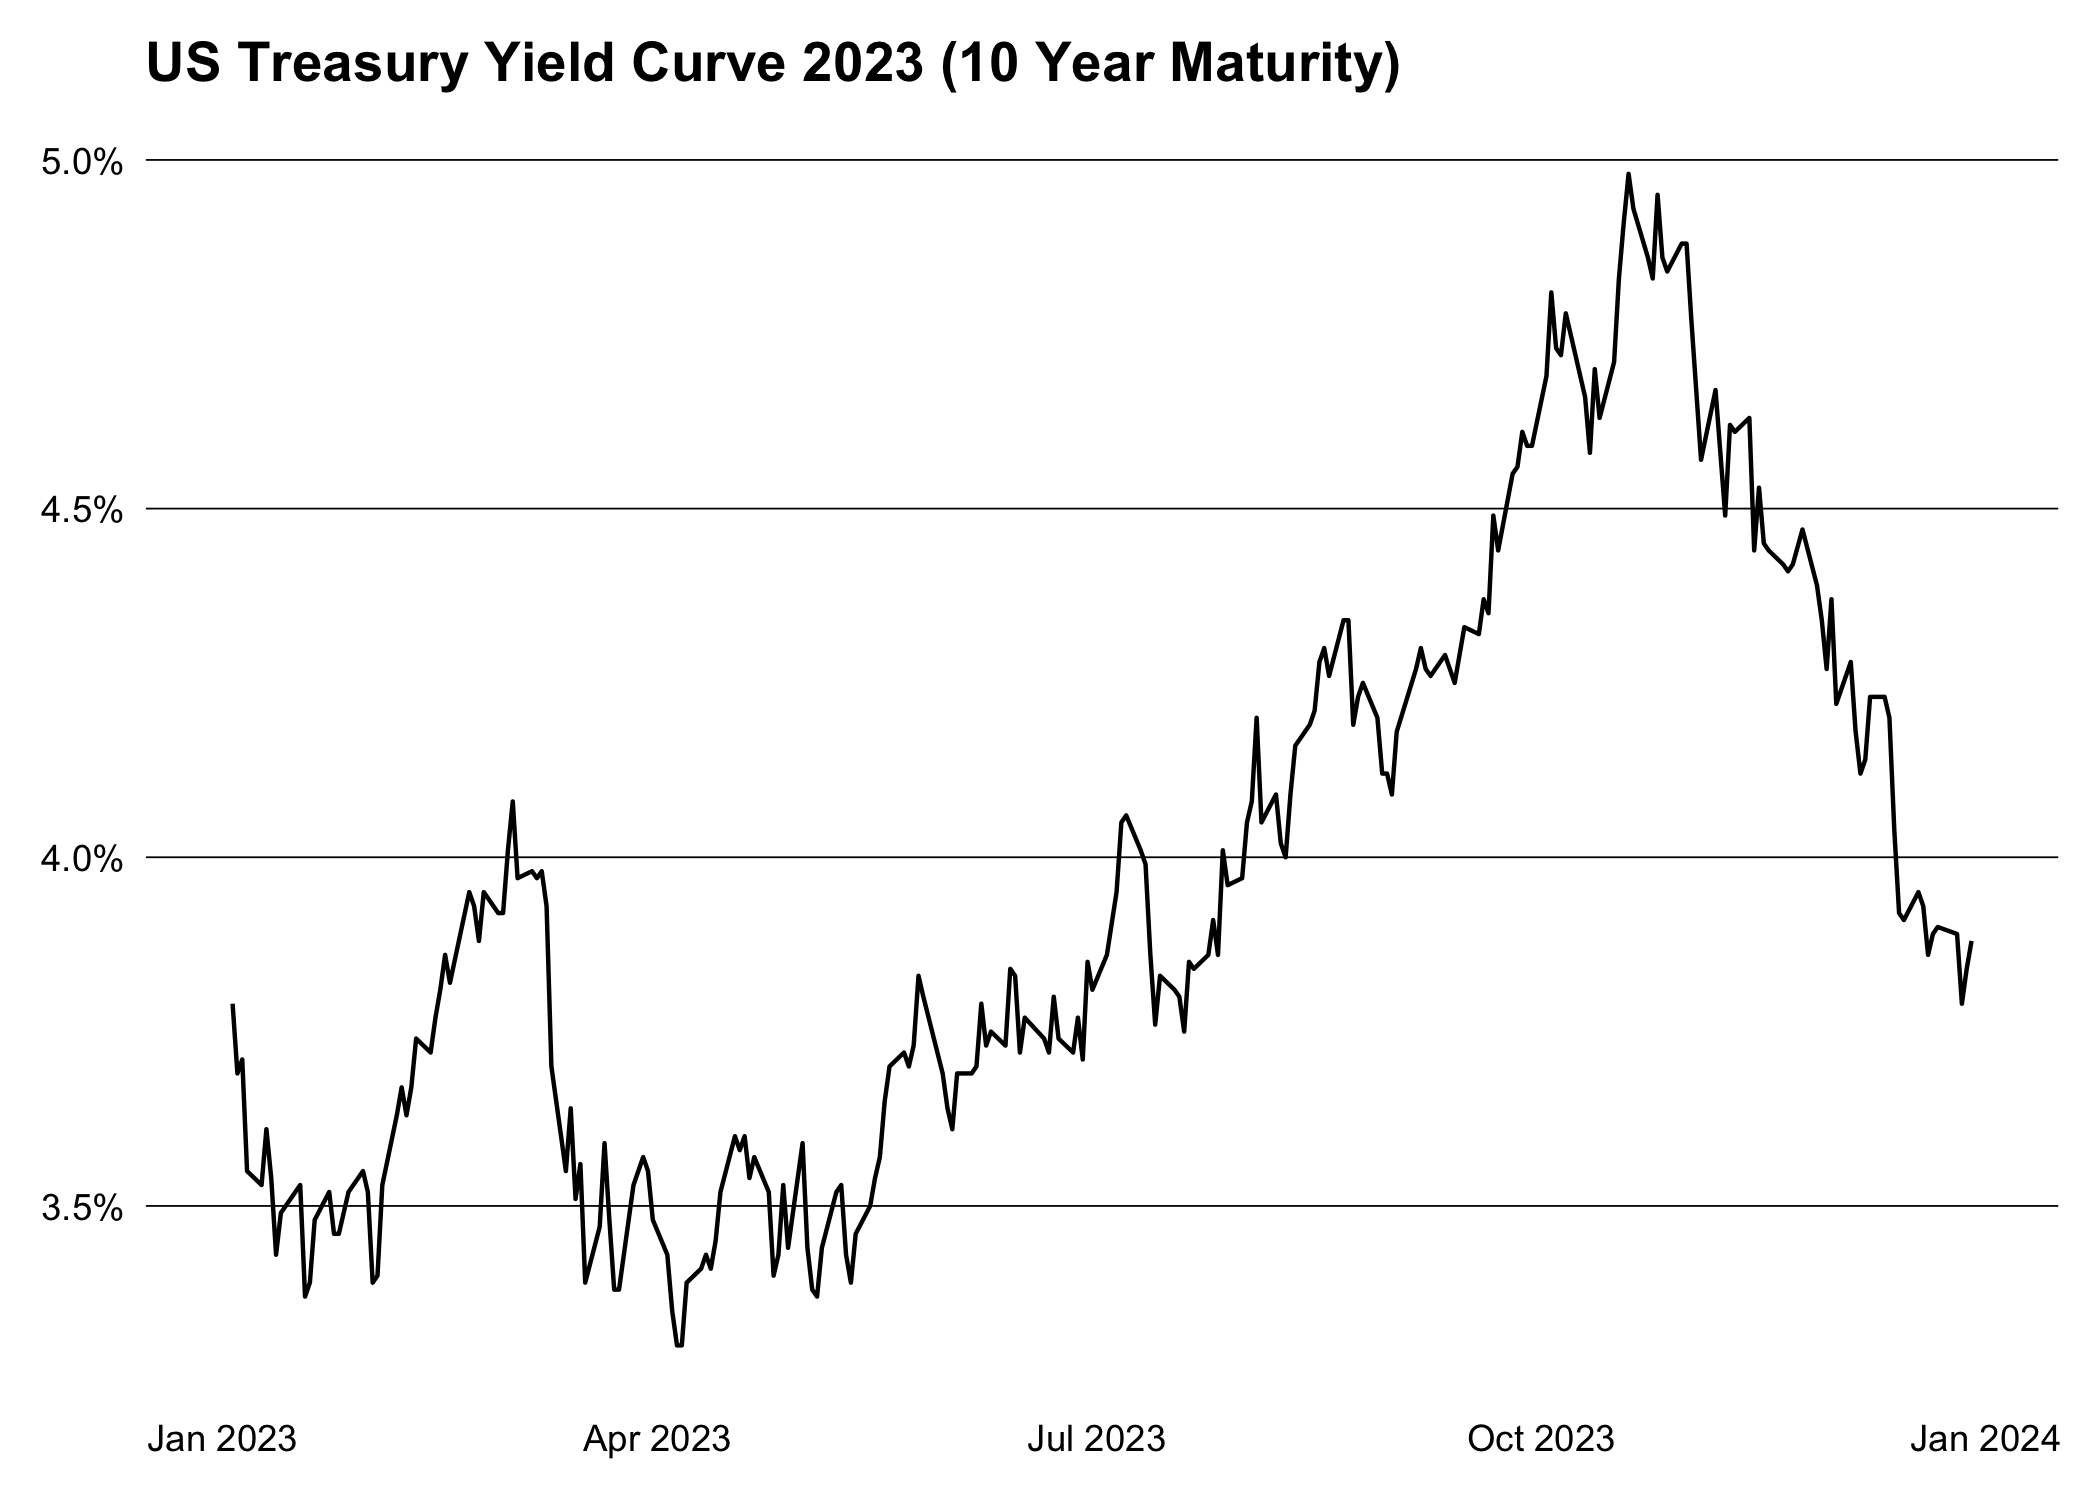
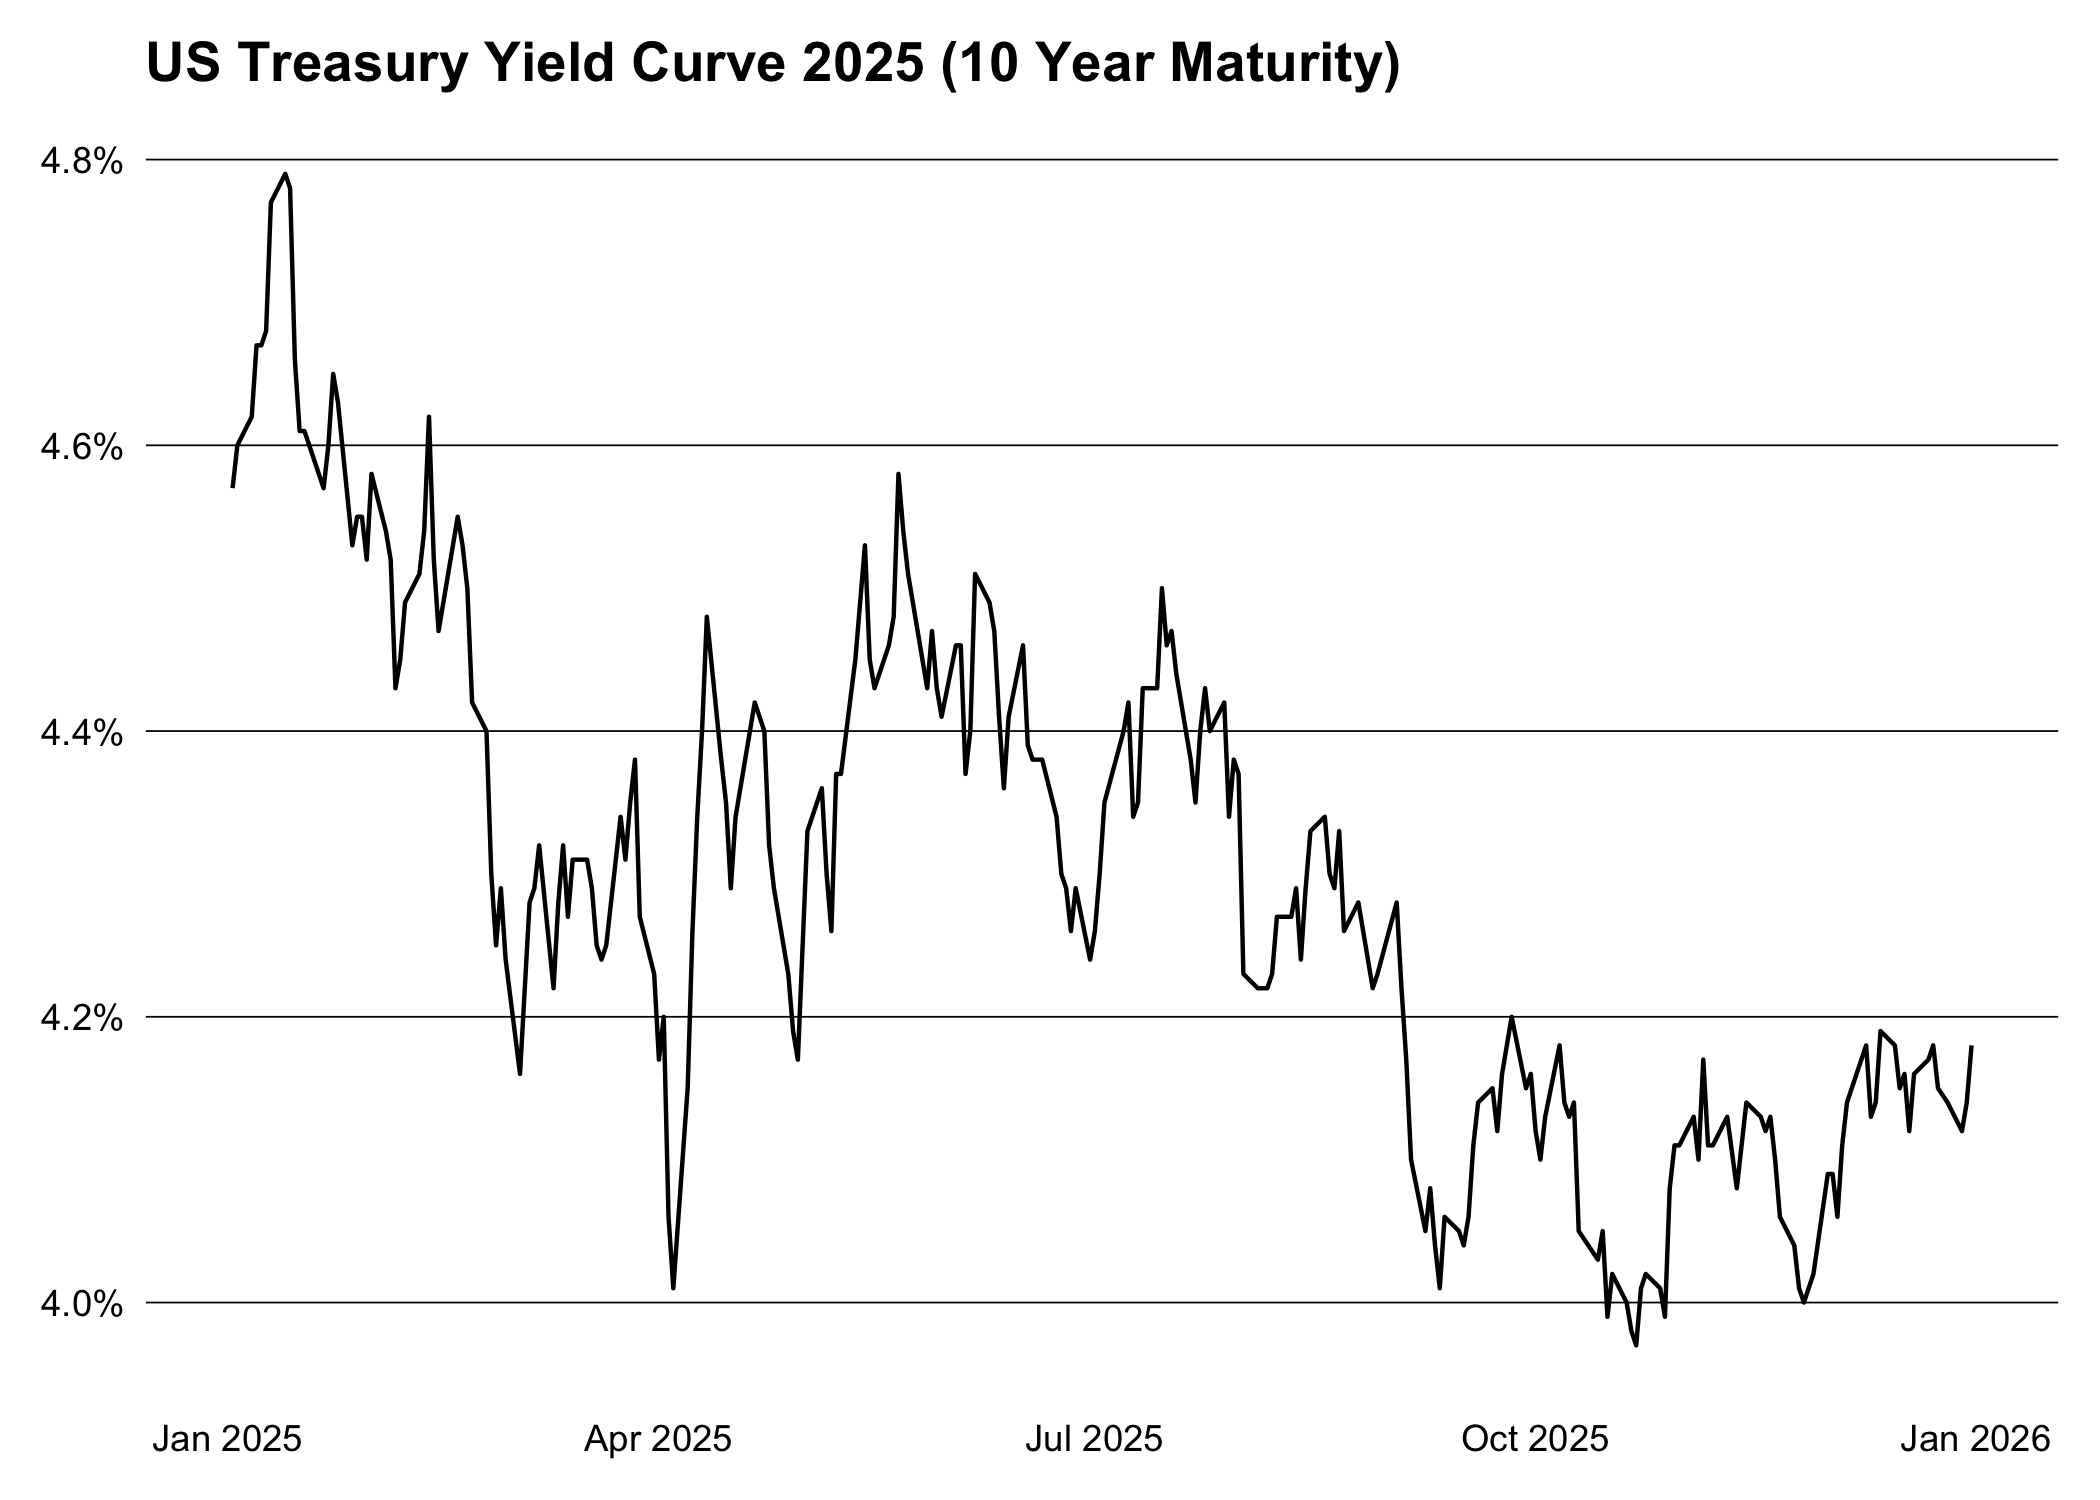
docs(readme): newer example

diff --git a/README.md b/README.md
@@ -43,16 +43,16 @@ convention of the XML feed.
 ``` r
 library(treasury)
 
-yield_curve <- tr_yield_curve(2023)
+yield_curve <- tr_yield_curve(2025)
 head(yield_curve)
 #>          date maturity  rate
 #>        <Date>   <char> <num>
-#> 1: 2023-01-03  1 month  4.17
-#> 2: 2023-01-03  2 month  4.42
-#> 3: 2023-01-03  3 month  4.53
-#> 4: 2023-01-03  4 month  4.70
-#> 5: 2023-01-03  6 month  4.77
-#> 6: 2023-01-03   1 year  4.72
+#> 1: 2025-01-02  1 month  4.45
+#> 2: 2025-01-02  2 month  4.36
+#> 3: 2025-01-02  3 month  4.36
+#> 4: 2025-01-02  4 month  4.31
+#> 5: 2025-01-02  6 month  4.25
+#> 6: 2025-01-02   1 year  4.17
 ```
 
 <img src="man/figures/README-plot-1.png" alt="" width="100%" />
